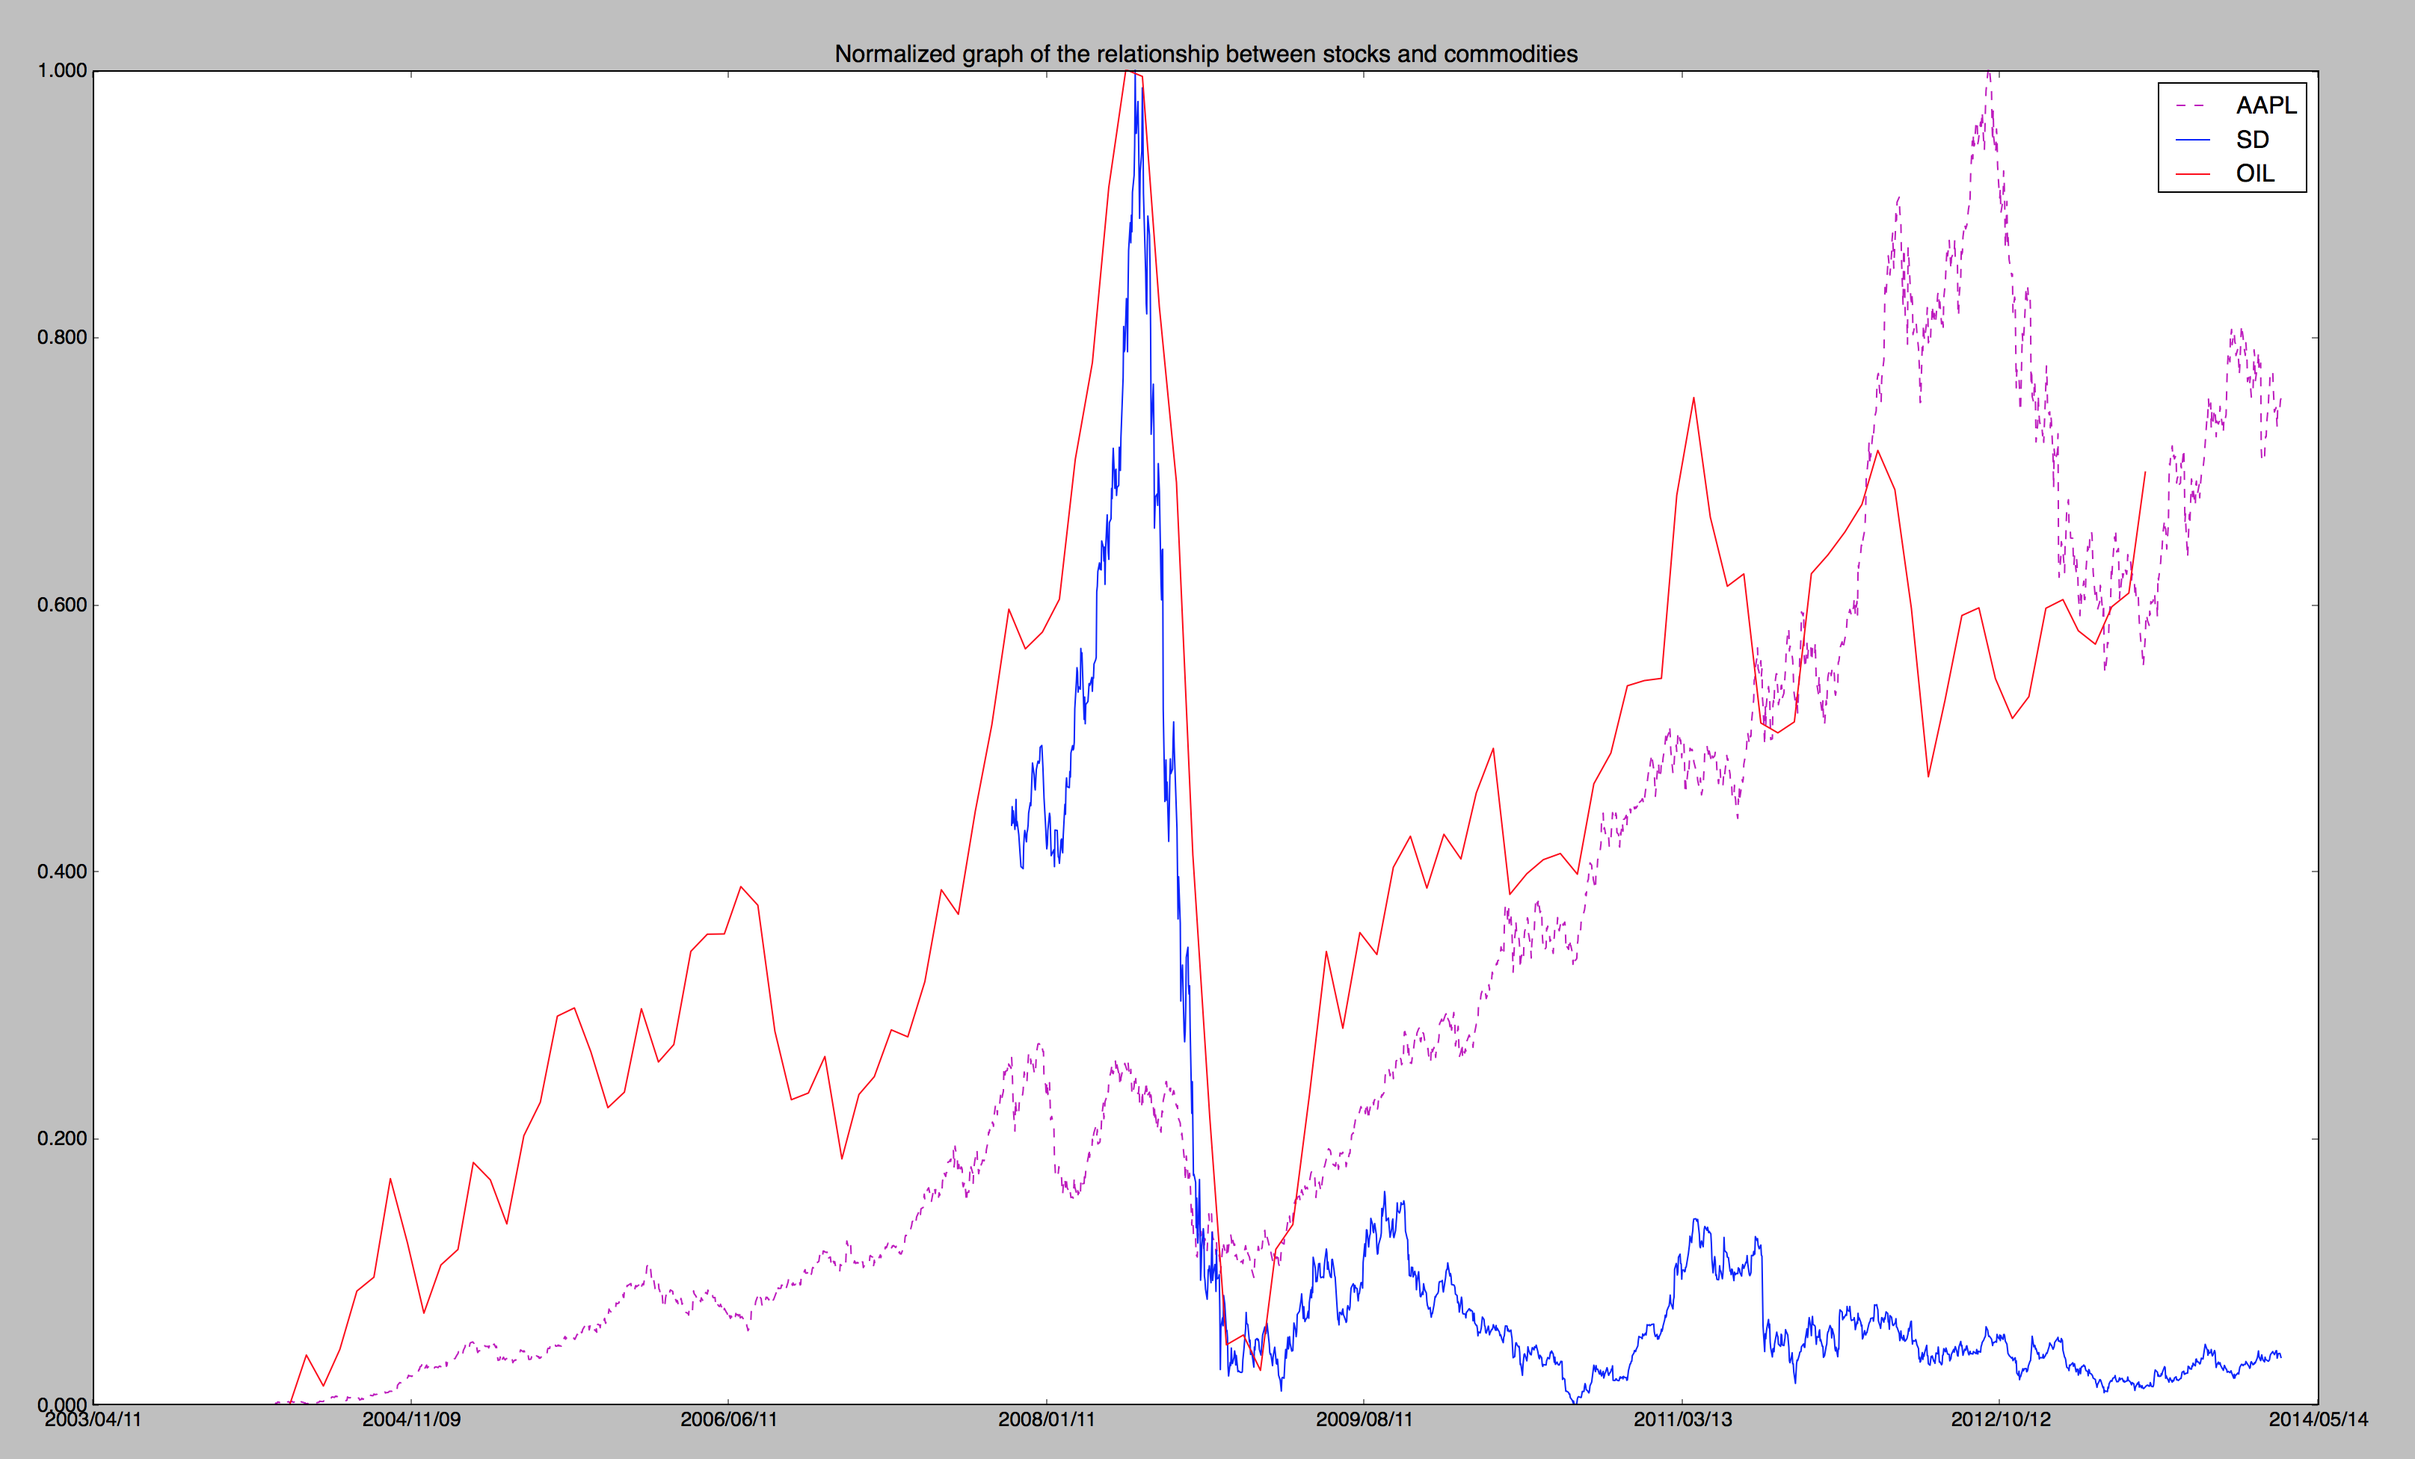
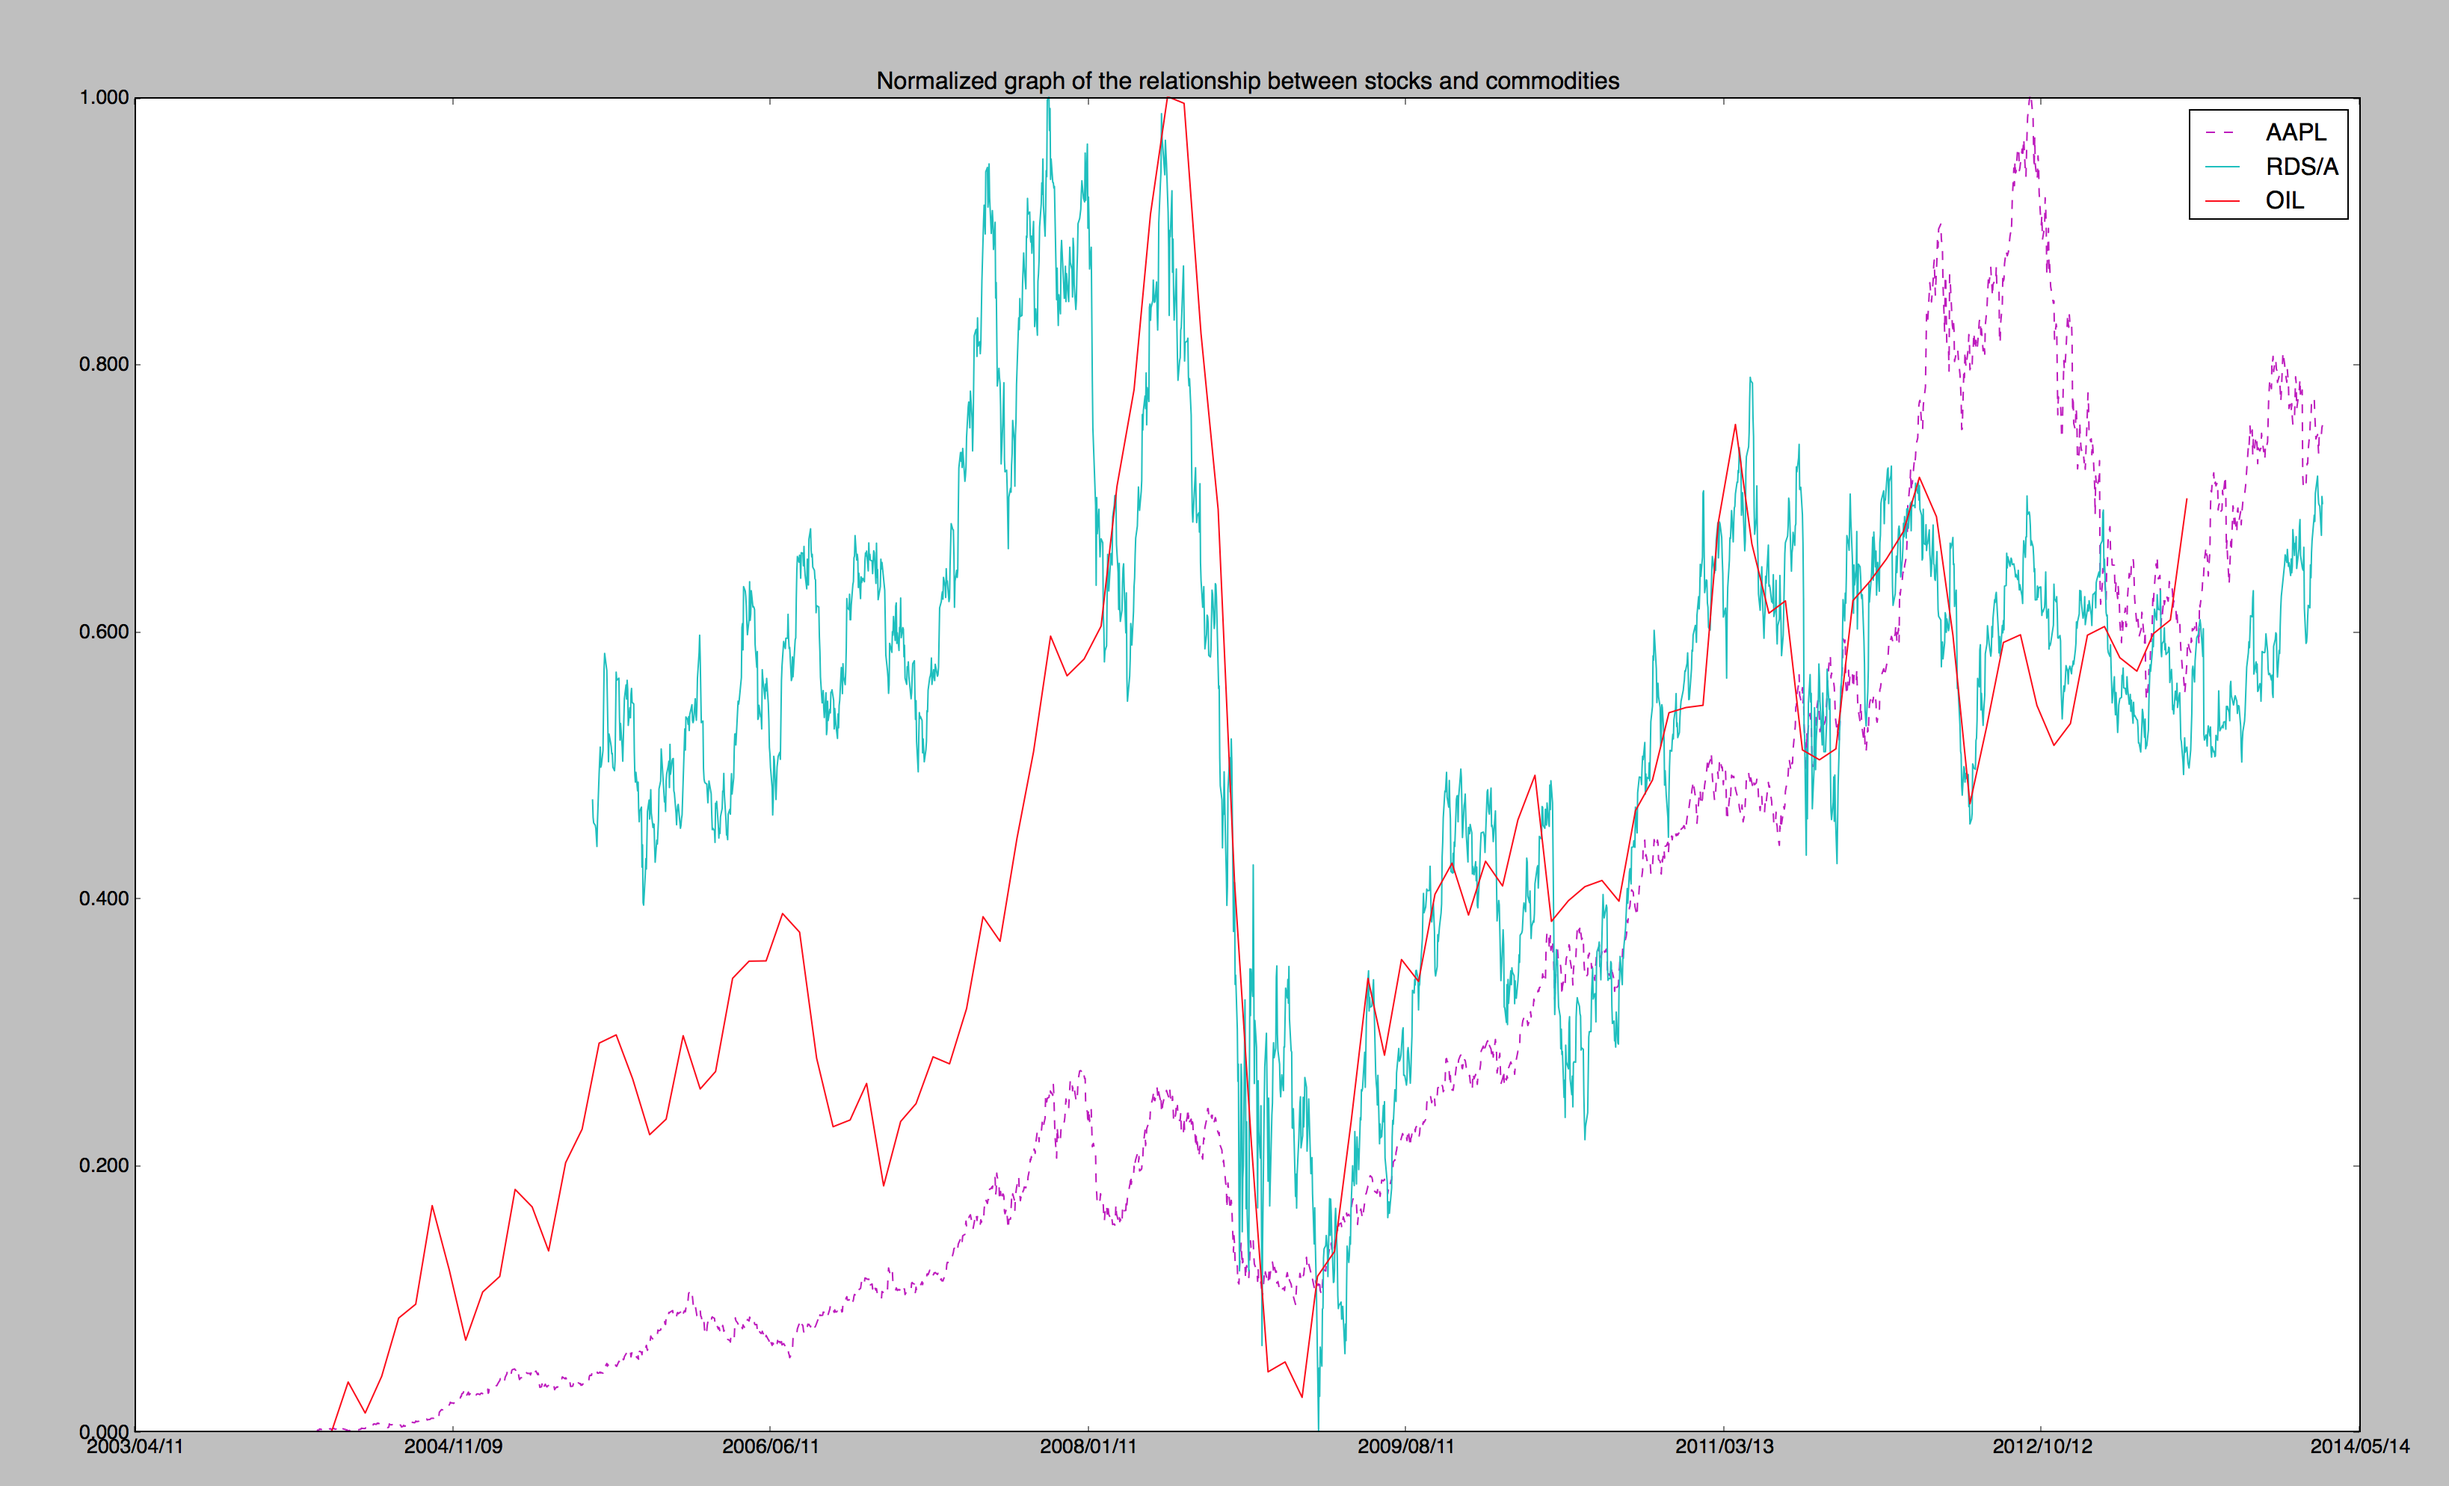
Screenshot changed.

diff --git a/analyzer.py b/analyzer.py
@@ -79,8 +79,8 @@ title('Normalized graph of the relationship between stocks and commodities')
 plot(map(lambda x: x[0], aapl), normalize(map(lambda x: x[1], aapl)), '--m', label='AAPL')
 #plot(map(lambda x: x[0], bac), normalize(map(lambda x: x[1], bac)), '--k', label='BAC')
 #plot(map(lambda x: x[0], xom), normalize(map(lambda x: x[1], xom)), '-g', label='XOM')
-plot(map(lambda x: x[0], sd), normalize(map(lambda x: x[1], sd)), '-b', label='SD')
-#plot(map(lambda x: x[0], rdsa), normalize(map(lambda x: x[1], rdsa)), '-c', label='RDS/A')
+#plot(map(lambda x: x[0], sd), normalize(map(lambda x: x[1], sd)), '-b', label='SD')
+plot(map(lambda x: x[0], rdsa), normalize(map(lambda x: x[1], rdsa)), '-c', label='RDS/A')
 plot(map(lambda x: x[0], oil), normalize(map(lambda x: x[1], oil)), '-r', label='OIL')
 legend(loc='upper right')
 
